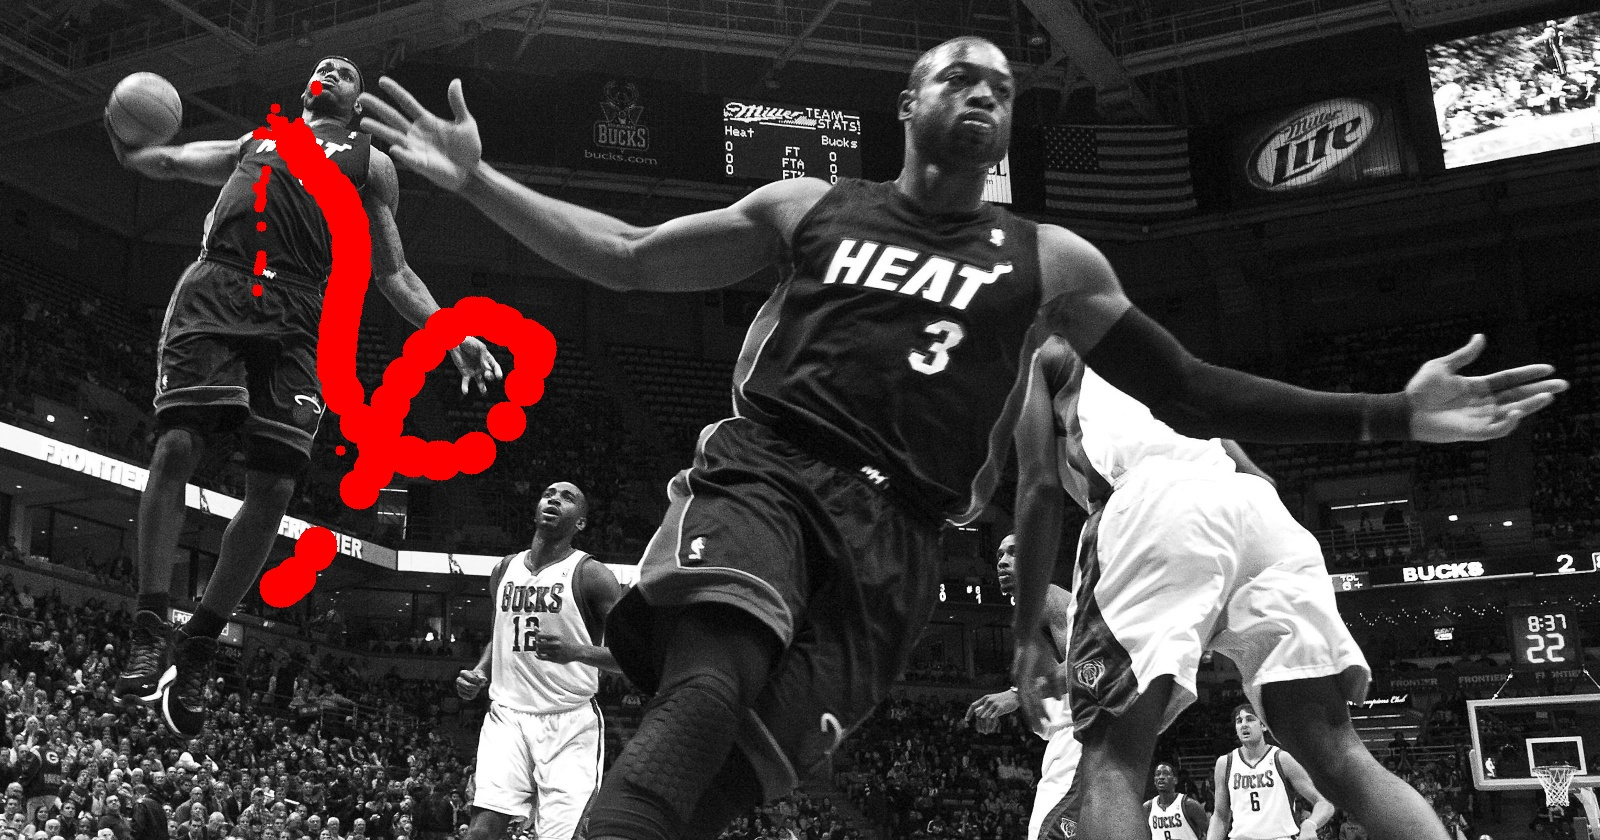
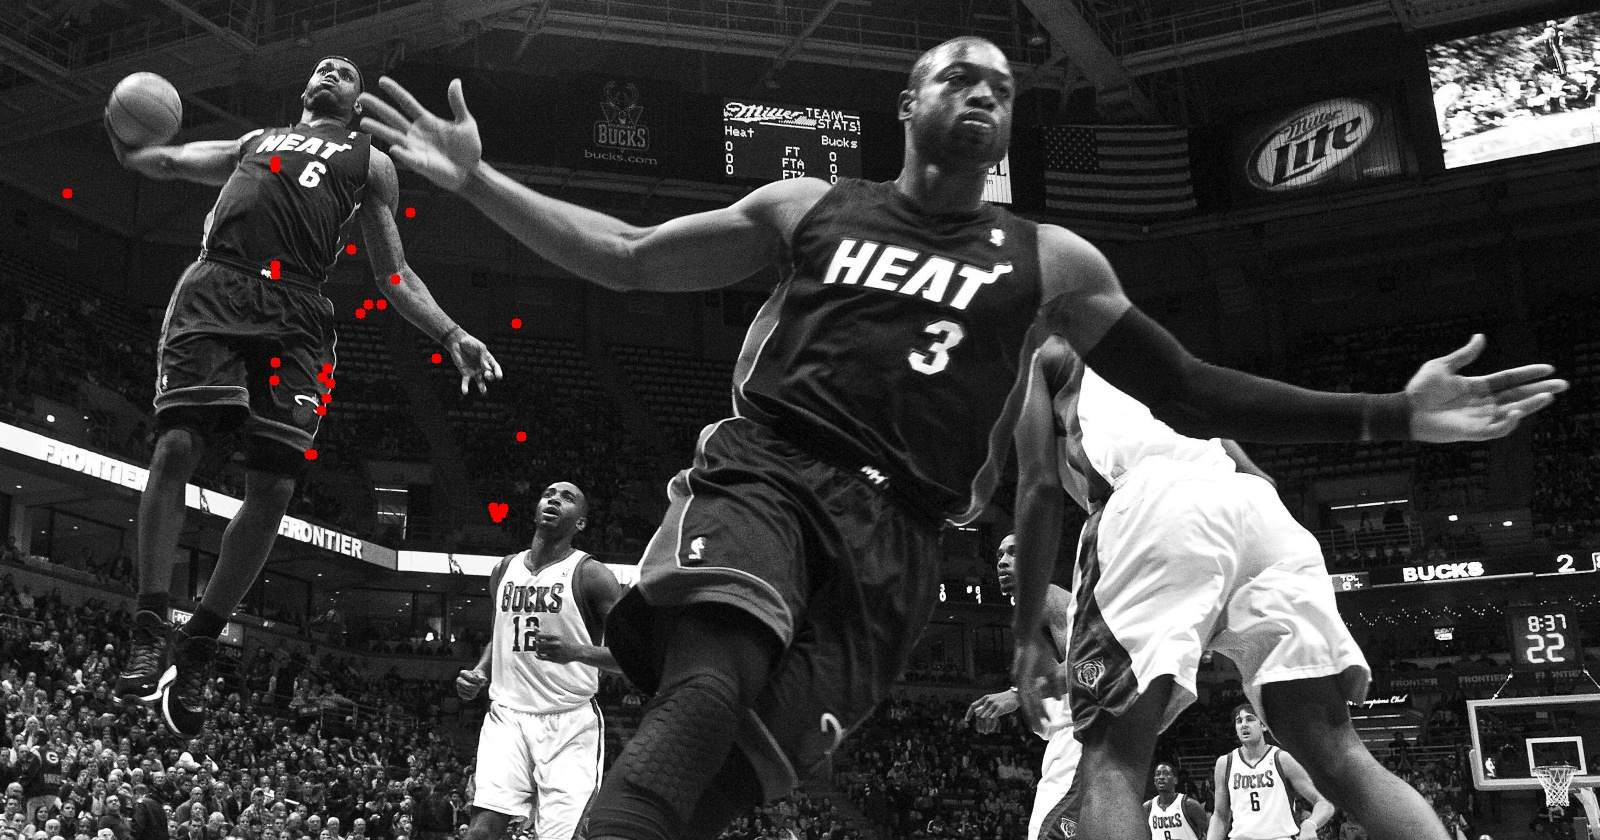
Debugged some issues

Changed region(s): [[0.1562, 0.1238, 0.375, 0.619], [0.1562, 0.619, 0.2188, 0.7429], [0.1875, 0.0929, 0.2188, 0.1238]]

diff --git a/twodays.py b/twodays.py
@@ -6,7 +6,7 @@ from color_image import color_image
 from colorize import colorize
 
 PATH = 'images/'
-HIGH_RES_IMAGE = 'the_dunk.jpeg'
+HIGH_RES_IMAGE = 'colorized_test.png'
 
 if __name__ == "__main__":
 
@@ -26,15 +26,17 @@ if __name__ == "__main__":
     cv2.imwrite(PATH+'LoResBW_'+HIGH_RES_IMAGE, low_res_bw_image)
 
     # User marks the smaller black and white image (LoResBW -> LoResMark)
-    low_res_mark_image = color_image('LoResBW_'+HIGH_RES_IMAGE, HIGH_RES_IMAGE)
+    low_res_mark_image = cv2.imread(PATH+'LoResMark_colorized_test.png')
+    # low_res_mark_image = color_image('LoResBW_'+HIGH_RES_IMAGE, HIGH_RES_IMAGE)
     cv2.imshow('LoResMark', low_res_mark_image)
 
     t1_start = time.perf_counter()
     t2_start = time.process_time()
 
     # Pass both the LoResBW and LoResMark into the colorizer (LoResBW + LoResMark -> LoResColor)
-    Low_res_color_image = colorize(low_res_bw_image, low_res_mark_image)
-
+    low_res_color_image = colorize(low_res_bw_image, low_res_mark_image)
+    cv2.imshow(PATH+'LoResColor', low_res_color_image)
+    cv2.imwrite(PATH+'LoResColor_'+HIGH_RES_IMAGE, low_res_color_image)
     # Pass the HiResBW, LoResBW, and LoResColor to get smaller marked window (HiResBW + LoResBW + LoResColor -> MarkedWindow)
 
     # Pass the marked window back into colorizer and recombine to high resolution colorized image (MarkedWindow -> HiResColorRecostructed)

diff --git a/colorize.py b/colorize.py
@@ -83,6 +83,7 @@ def colorize(pic_o, pic_m):
     weightData = []
     num_pixel_bw = 0
 
+    print("Building")
     # build the weight matrix for each window.
     for c in range(pic_cols):
         for r in range(pic_rows):
@@ -93,7 +94,7 @@ def colorize(pic_o, pic_m):
                 for e in weights:
                     weightData.append([w.center,(e[0],e[1]), e[2]])
             weightData.append([w.center, (w.center[0],w.center[1]), 1.])
-
+    print("Done")
     sp_idx_rc_data = [[to_seq(e[0][0], e[0][1], pic_rows), to_seq(e[1][0], e[1][1], pic_rows), e[2]] for e in weightData]
     sp_idx_rc = np.array(sp_idx_rc_data, dtype=np.integer)[:,0:2]
     sp_data = np.array(sp_idx_rc_data, dtype=np.float64)[:,2]
